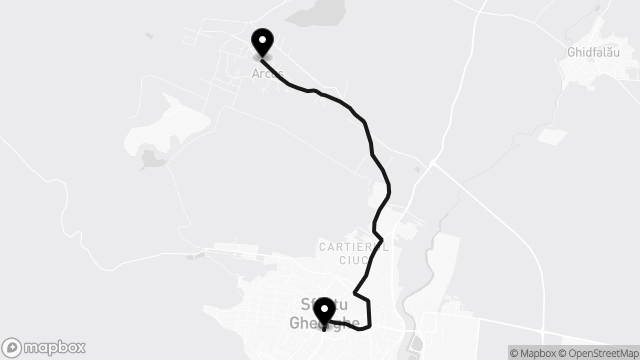
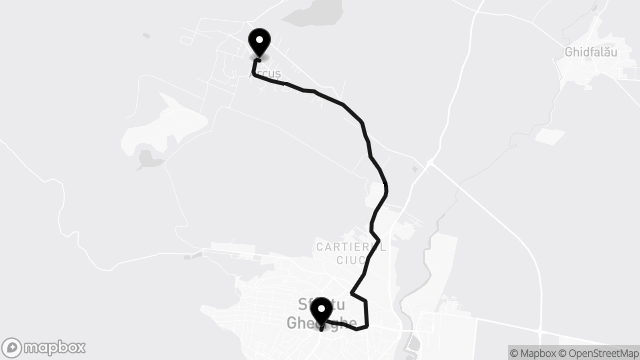
Regenerate the baked line maps and stamp the service worker
Claude-Session: https://claude.ai/code/session_01B47mgEvBSLd1KJAtaXDsn5

diff --git a/web/lib/seo/line-maps.test.ts b/web/lib/seo/line-maps.test.ts
@@ -76,11 +76,7 @@ describe("mapImage", () => {
 });
 
 describe("manifest ↔ hash drift", () => {
-  // TODO Task 28: the Sept 7 reconstruction changed the 2/6/1B/1D/2D/5/10
-  // geometry + 1B's rendered colour, so the committed hashes no longer match.
-  // Task 28 re-bakes the PNGs and rewrites .line-maps-manifest.json with a
-  // Mapbox token (gen-maps.mjs is a no-op without one); un-skip then.
-  it.skip("every committed manifest hash matches lineMapHash recomputed from the feed", () => {
+  it("every committed manifest hash matches lineMapHash recomputed from the feed", () => {
     const manifestPath = join(process.cwd(), ".line-maps-manifest.json");
     if (!existsSync(manifestPath)) return; // the gen-maps script creates it
     const manifest = JSON.parse(require("node:fs").readFileSync(manifestPath, "utf8"));
